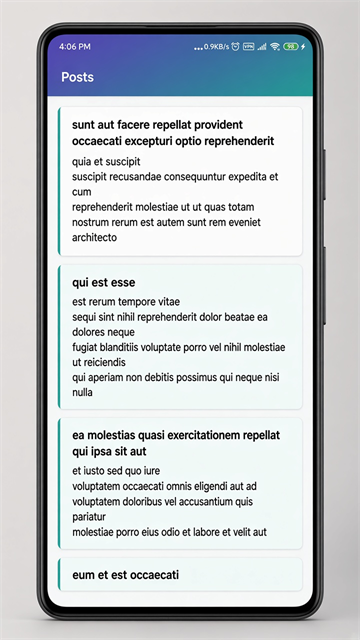
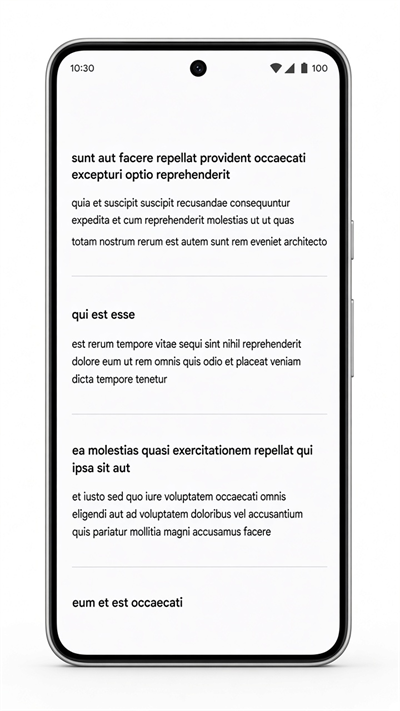
image change

diff --git a/README.md b/README.md
@@ -2,7 +2,7 @@
 
 A simple Android starter app that shows a list of posts.
 
-<img src="docs/posts-screen.png" width="280" alt="Posts list screen" />
+<img src="docs/posts-screen.png" width="300" alt="Posts list screen" />
 
 The app loads posts from [JSONPlaceholder](https://jsonplaceholder.typicode.com/posts), saves them in a local Room database, and displays them in a Jetpack Compose list (title + body for each post).
 
